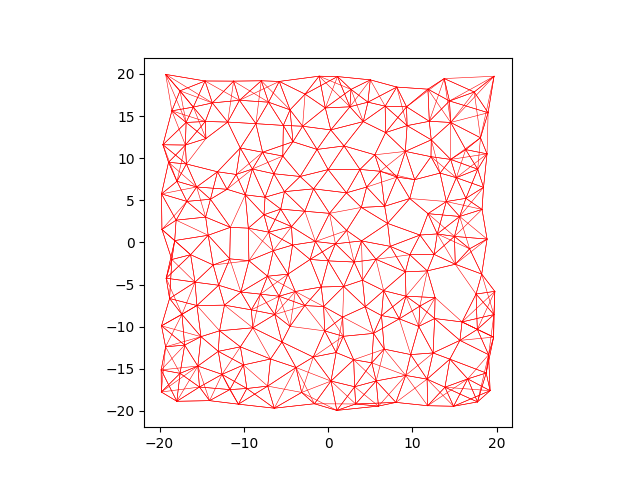
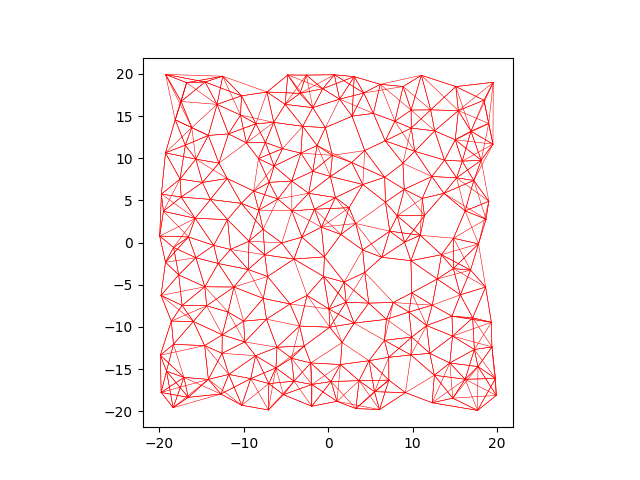
add incremental api example

diff --git a/sg_specs/incremental_api.py b/sg_specs/incremental_api.py
@@ -1,0 +1,58 @@
+from cmx import doc
+from tqdm import tqdm, trange
+import matplotlib.pyplot as plt
+import numpy as np
+from sparse_graphs.asym_graph import AsymMesh, l2, id2D
+
+if __name__ == '__main__':
+    doc @ """
+    # Advanced Example
+    """
+    with doc:
+        np.random.seed(100)
+
+        r_min = 2
+        xys = np.random.uniform(-20, 20, [200, 2])
+
+    doc @ f"""
+    Only insert nodes when it is at least `r_min={r_min}` away 
+    from existing nodes.
+    """
+    with doc:
+        graph = AsymMesh(n=10_000, k=6, dim=2, img_dim=[2], kernel_fn=l2, embed_fn=id2D, d_max=20)
+        graph.extend(images=xys, meta=xys)
+        graph.dedupe_(r_min)
+        graph.update_edges()
+
+    # plotting code
+    nodes = np.stack(graph.meta[graph.z_mask]).T
+    fig = plt.figure()
+    plt.gca().set_aspect('equal')
+    for i, j in tqdm(graph.edges, desc=" edges"):
+        a, b = graph.meta[[i, j]]
+        plt.plot([a[0], b[0]], [a[1], b[1]], color="red", linewidth=0.4)
+
+    doc @ """
+    Now to continuously add more vertices to the graph
+    """
+    with doc:
+        for i in trange(500, desc="extend"):
+            new_xys = np.random.uniform(-20, 20, [200, 2])
+            graph.sparse_extend(new_xys, r_min=r_min, meta=new_xys)
+            graph.update_edges()
+
+    r = doc.table().figure_row()
+
+    r.savefig(f"figures/high_level/before.png?ts={doc.now('%f')}", title="before", fig=fig)
+    plt.close(fig)
+
+    fig = plt.figure()
+    nodes = np.stack(graph.meta[graph.z_mask]).T
+    plt.gca().set_aspect('equal')
+    for i, j in tqdm(graph.edges, desc=" edges"):
+        a, b = graph.meta[[i, j]]
+        plt.plot([a[0], b[0]], [a[1], b[1]], color="red", linewidth=0.4)
+    r.savefig(f"figures/high_level/after.png?ts={doc.now('%f')}", title="after")
+    plt.close()
+
+    doc.flush()

diff --git a/sparse_graphs/asym_graph.py b/sparse_graphs/asym_graph.py
@@ -47,7 +47,7 @@ class AsymMesh:
     meta = None
     z_mask = None
 
-    def __init__(self, n, dim, k, kernel_fn, embed_fn=None,  img_dim=None, neighbor_r=1, d_max=1):
+    def __init__(self, n, dim, k, kernel_fn, embed_fn=None, img_dim=None, neighbor_r=1, d_max=1):
         self.n = n
         self.dim = dim
         self.k = k
@@ -121,6 +121,21 @@ class AsymMesh:
         spots = self.indices[mask_spots]
         self.z_mask[:] = False
         self.z_mask[spots] = True
+
+    def sparse_extend(self, images, *, r_min, meta=None):
+        zs = self.embed_fn(images)
+        spots = self.dedupe(images=zs, r_min=r_min)
+        zs = zs[spots]
+        ds = self.to_goal(zs_2=zs)
+        images = images[spots]
+        meta = meta if meta is None else meta[spots]
+        if ds.size == 0:
+            return self.extend(zs, images=images, meta=meta)
+        else:
+            m = ds.min(axis=0) >= r_min
+            if m.any():
+                return self.extend(zs[m], images=images[m],
+                                   meta=None if meta is None else meta[m])
 
     def update_zs(self):
         self.zs[self.z_mask] = self.embed_fn(self.images[self.z_mask])

diff --git a/sg_specs/batch_sparsification.py b/sg_specs/batch_sparsification.py
@@ -41,7 +41,7 @@ def spec_batch_add(xys, r_min):
         if ds.size == 0:
             graph.extend(xys, images=xys, meta=xys)
         else:
-            m = ds.min(axis=-1) >= r_min
+            m = ds.min(axis=0) >= r_min
             if m.any():
                 graph.extend(xys[m], images=xys[m], meta=xys[m])
         graph.update_edges()

diff --git a/sg_specs/incremental_api.md b/sg_specs/incremental_api.md
@@ -1,0 +1,32 @@
+
+# Advanced Example
+
+```python
+np.random.seed(100)
+
+r_min = 2
+xys = np.random.uniform(-20, 20, [200, 2])
+```
+
+Only insert nodes when it is at least `r_min=2` away 
+from existing nodes.
+
+```python
+graph = AsymMesh(n=10_000, k=6, dim=2, img_dim=[2], kernel_fn=l2, embed_fn=id2D, d_max=20)
+graph.extend(images=xys, meta=xys)
+graph.dedupe_(r_min)
+graph.update_edges()
+```
+
+Now to continuously add more vertices to the graph
+
+```python
+for i in trange(500, desc="extend"):
+    new_xys = np.random.uniform(-20, 20, [200, 2])
+    graph.sparse_extend(new_xys, r_min=r_min, meta=new_xys)
+    graph.update_edges()
+```
+| **before** | **after** |
+|:----------:|:---------:|
+| <img style="align-self:center;" src="figures/high_level/before.png?ts=133434" image="None" styles="{'margin': '0.5em'}" width="None" height="None" fig="Figure(640x480)"/> | <img style="align-self:center;" src="figures/high_level/after.png?ts=826896" image="None" styles="{'margin': '0.5em'}" width="None" height="None"/> |
+

diff --git a/README.md b/README.md
@@ -1,8 +1,9 @@
 # Dynamic Graphical Memory Implementation
 
-- [**planning.py**](./sg_specs/planning.md) includes examples on how to use this graph with graph_search.
-- [**graph_sparsification.py**](./sg_specs/graph_sparsification.md) examples on how to sparsify a graph
+- [**planning.py**](./sg_specs/planning.md) shows how to use this graph with graph_search.
+- [**graph_sparsification.py**](./sg_specs/graph_sparsification.md) shows how to sparsify a graph
 - [**batch_sparsification.py**](./sg_specs/batch_sparsification.md)  efficiently sparsify a graph with as a batch
+- [**incremental_api.py**](./specs/incremental_api.md) shows how to extend with sparsity
 
 ## Usage
 

diff --git a/sg_specs/README.md b/sg_specs/README.md
@@ -5,4 +5,5 @@
 - [**planning.py**](./planning.md) includes examples on how to use this graph with graph_search.
 - [**graph_sparsification.py**](graph_sparsification.md) examples on how to sparsify a graph
 - [**batch_sparsification.py**](batch_sparsification.md)  efficiently sparsify a graph with as a batch
+- [**incremental_api.py**](incremental_api.md) examples on how to extend with sparsity
 
